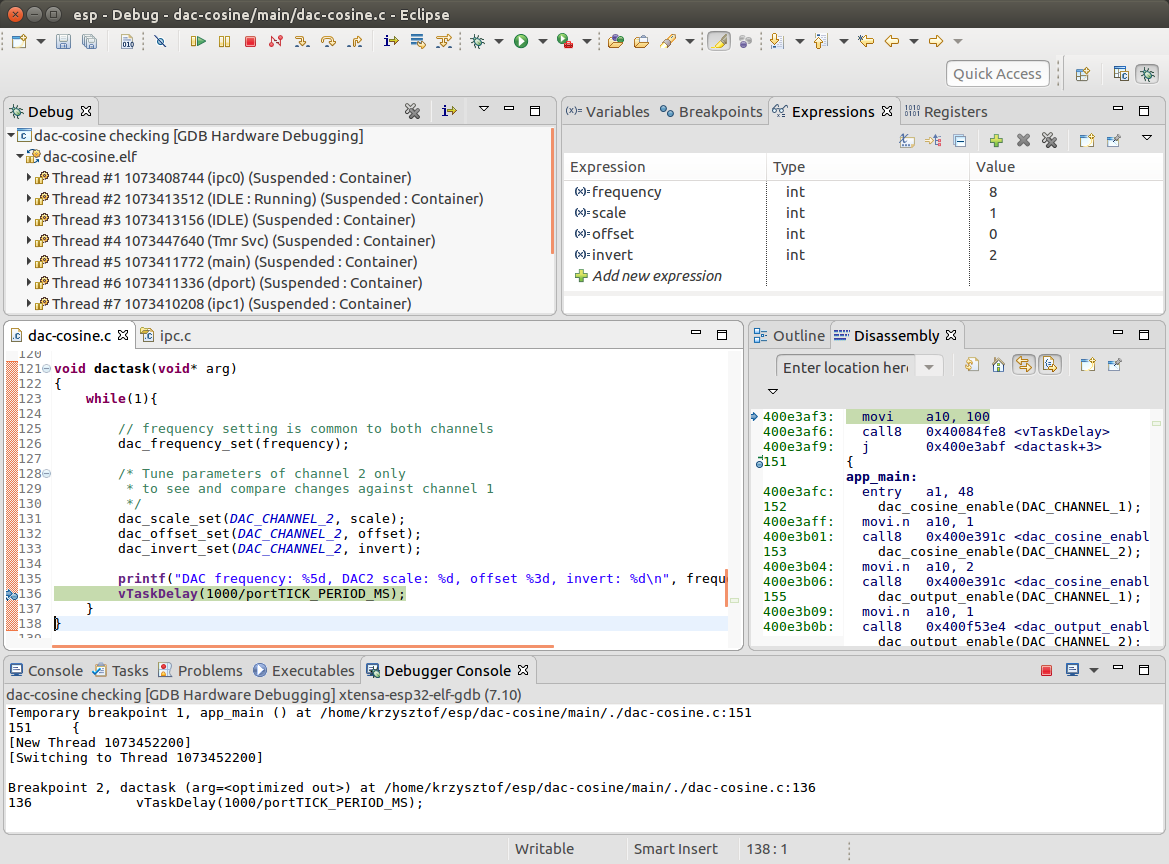
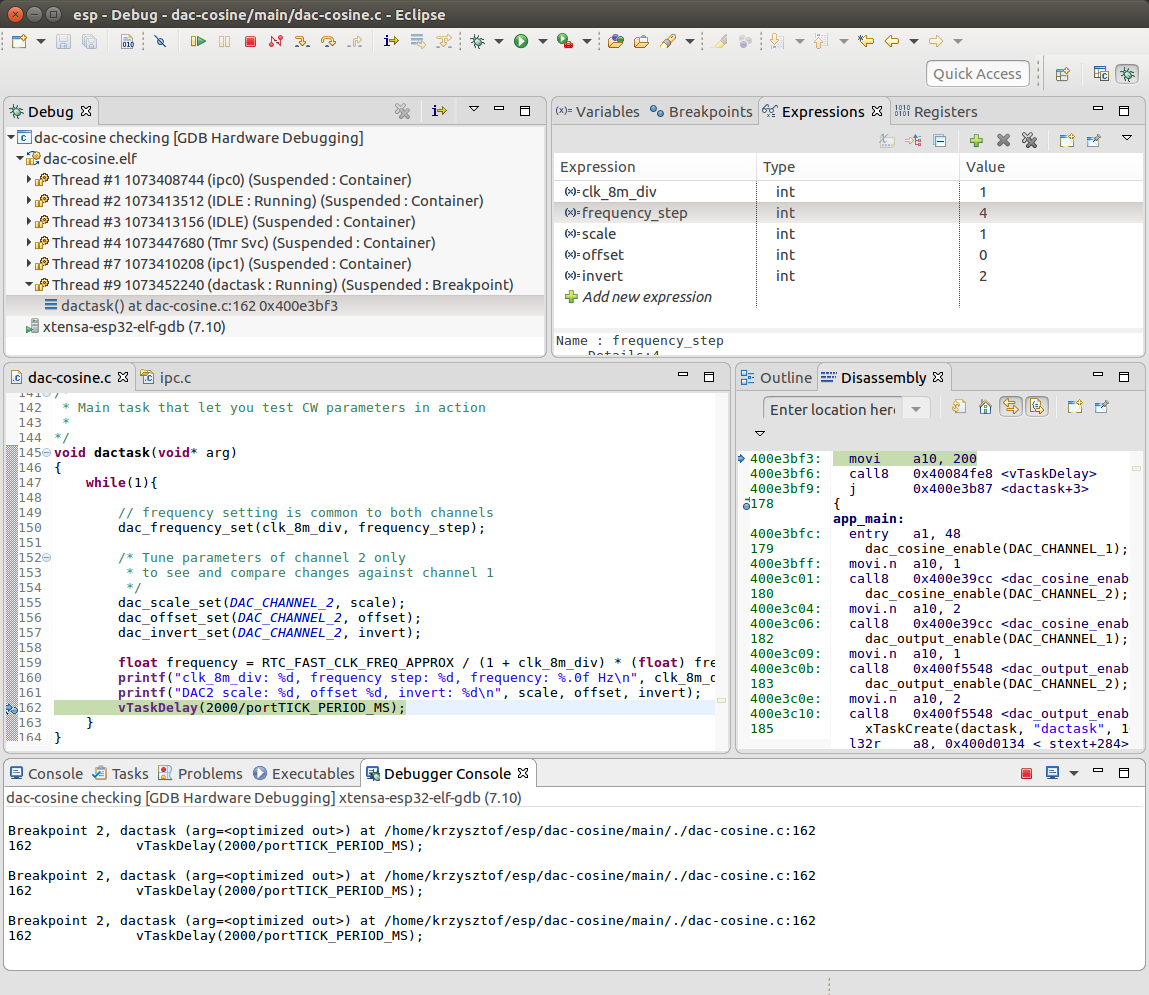
Widen lower frequecy range with clk_8m_div

Changed region(s): [[0.0, 0.0, 1.0, 1.0]]

diff --git a/main/dac-cosine.c b/main/dac-cosine.c
@@ -16,6 +16,8 @@
 #include "soc/rtc_io_reg.h"
 #include "soc/rtc_cntl_reg.h"
 #include "soc/sens_reg.h"
+#include "soc/rtc.h"
+
 
 #include "driver/dac.h"
 
@@ -23,10 +25,11 @@
  * so they may be then accessed and changed from debugger
  * over an JTAG interface
  */
-int frequency = 8;    // about 1kHz
-int scale = 1;        // 50% of the full scale
-int offset;           // leave it default / 0 = no any offset
-int invert = 2;       // invert MSB to get sine waveform
+int clk_8m_div = 0;      // RTC 8M clock divider (division is by clk_8m_div+1, i.e. 0 means 8MHz frequency)
+int frequency_step = 8;  // Frequency step for CW generator
+int scale = 1;           // 50% of the full scale
+int offset;              // leave it default / 0 = no any offset
+int invert = 2;          // invert MSB to get sine waveform
 
 
 /*
@@ -56,12 +59,14 @@ void dac_cosine_enable(dac_channel_t channel)
 /*
  * Set frequency of internal CW generator common to both DAC channels
  *
- * Range 0x0001 - 0xFFFF
+ * clk_8m_div: 0b000 - 0b111
+ * frequency_step: range 0x0001 - 0xFFFF
  *
  */
-void dac_frequency_set(int frequency)
+void dac_frequency_set(int clk_8m_div, int frequency_step)
 {
-    SET_PERI_REG_BITS(SENS_SAR_DAC_CTRL1_REG, SENS_SW_FSTEP, frequency, SENS_SW_FSTEP_S);
+    REG_SET_FIELD(RTC_CNTL_CLK_CONF_REG, RTC_CNTL_CK8M_DIV_SEL, clk_8m_div);
+    SET_PERI_REG_BITS(SENS_SAR_DAC_CTRL1_REG, SENS_SW_FSTEP, frequency_step, SENS_SW_FSTEP_S);
 }
 
 
@@ -133,13 +138,16 @@ void dac_invert_set(dac_channel_t channel, int invert)
     }
 }
 
-
+/*
+ * Main task that let you test CW parameters in action
+ *
+*/
 void dactask(void* arg)
 {
     while(1){
 
         // frequency setting is common to both channels
-        dac_frequency_set(frequency);
+        dac_frequency_set(clk_8m_div, frequency_step);
 
         /* Tune parameters of channel 2 only
          * to see and compare changes against channel 1
@@ -148,10 +156,13 @@ void dactask(void* arg)
         dac_offset_set(DAC_CHANNEL_2, offset);
         dac_invert_set(DAC_CHANNEL_2, invert);
 
-        printf("DAC frequency: %5d, DAC2 scale: %d, offset %3d, invert: %d\n", frequency, scale, offset, invert);
-        vTaskDelay(1000/portTICK_PERIOD_MS);
+        float frequency = RTC_FAST_CLK_FREQ_APPROX / (1 + clk_8m_div) * (float) frequency_step / 65536;
+        printf("clk_8m_div: %d, frequency step: %d, frequency: %.0f Hz\n", clk_8m_div, frequency_step, frequency);
+        printf("DAC2 scale: %d, offset %d, invert: %d\n", scale, offset, invert);
+        vTaskDelay(2000/portTICK_PERIOD_MS);
     }
 }
+
 
 /*
  * Generate a sine waveform on both DAC channels:

diff --git a/README.md b/README.md
@@ -10,20 +10,20 @@ The purpose of this repository is to review functionality of ESP32's cosine wave
 
 ## Documentation is there
 
-The cosine waveform (CW) generator is described in details in the [ESP32 Technical Reference Manual](http://espressif.com/sites/default/files/documentation/esp32_technical_reference_manual_en.pdf), but if we check API of [ESP-IDF](https://github.com/espressif/esp-idf), it has no any support implemented (as of July 2017). Fortunately, with commonly available information we can fairly easy put it into action.
+The cosine waveform (CW) generator is described in details in the [ESP32 Technical Reference Manual](http://espressif.com/sites/default/files/documentation/esp32_technical_reference_manual_en.pdf), but if we check API of [ESP-IDF](https://github.com/espressif/esp-idf), it has no any support implemented (as of August 2017). Fortunately, with commonly available information we can fairly easy put it into action.
  
 Starting with ESP32 Technical Reference Manual, in chapter 24.7, we learn that the cosine waveform (CW) generator it is part of 8-bit DAC functional block and find the following functional diagram:
 
 ![alt text](pictures/dac.png "ESP32 DAC functional diagram (figure from ESP32 Technical Reference Manual)")
  
-Diagram is showing "CW generator" box in upper left corner of diagram and two mux transfer blocks that are routed to DAC taking 8 bits on input on one side and providing `dacn_out` analog output on the other.
+Diagram is showing "CW generator" box in upper left corner of diagram and two mux transfer blocks that are routed to DAC taking 8 bits on input on one side, and providing `dacn_out` analog output on the other.
  
 Besides CW, DAC is also accepting input from DMA, to generate arbitrary waveform, or from `RTCIO_PAD_DACn_REG` register to provide ordinary conversion of 8-bit numeric value. Several “n” letters on this diagram indicate either 1 or 2 because DAC has two channels.
 
  
 ## Check basic DAC functionality
 
-To start with we should explore how ordinary conversion of 8-bit numeric values is performed. Checking [DAC API](http://esp-idf.readthedocs.io/en/latest/api-reference/peripherals/dac.html) in ESP-IDF, we will find couple of functions to enable DAC and output an analog value. Unfortunately these functions are not provided in source code. But checking further in [arduino-esp32](https://github.com/espressif/arduino-esp32) repository, we will find [esp32-hal-dac.c](https://github.com/espressif/arduino-esp32/blob/758553a786520b138307691e842e53b25606960b/cores/esp32/esp32-hal-dac.c) file that contains couple lines of code with comments that are behind Arduino `dacWrite` function. This should give us initial understanding which registers are used to provide digital value to be converted to analog output and how to enable or disable an output.  Checking further the [ESP32 Technical Reference Manual](http://espressif.com/sites/default/files/documentation/esp32_technical_reference_manual_en.pdf) and searching for `SENS_SAR_DAC_CTRL1_REG` we will easy find a “Register Summary” section 28.4, that provides this and other register names used in esp32-hal-dac.c with explanation of particular bits and functions.
+To start with we should explore how ordinary conversion of 8-bit numeric values is performed. Checking [DAC API](http://esp-idf.readthedocs.io/en/latest/api-reference/peripherals/dac.html) in ESP-IDF, we will find couple of functions to enable DAC and output an analog value. Unfortunately these functions are not provided in source code. But checking further in [arduino-esp32](https://github.com/espressif/arduino-esp32) repository, we will find [esp32-hal-dac.c](https://github.com/espressif/arduino-esp32/blob/758553a786520b138307691e842e53b25606960b/cores/esp32/esp32-hal-dac.c) file that contains couple lines of code with comments that are behind Arduino `dacWrite` function. This should give us initial understanding which registers are used to provide digital value to be converted to analog output, and how to enable or disable the output. Checking further the [ESP32 Technical Reference Manual](http://espressif.com/sites/default/files/documentation/esp32_technical_reference_manual_en.pdf) and searching for `SENS_SAR_DAC_CTRL1_REG` we will easy find a “Register Summary” section 28.4, that provides this and other register names used in esp32-hal-dac.c with explanation of particular bits and functions.
 
 
 ## Use CW instead of ordinary DAC conversion
@@ -36,7 +36,15 @@ In other words setting `SENS_DAC_CW_EN1` bit will connect CW generator, clearing
 
 After additional studying of fields of `SENS_SAR_DAC_CTRL1_REG` register we will also discover `SENS_SW_TONE_EN` bit that is enabling the CW generator itself.
 
-The last component to complete this exercise is setting of generator's frequency. Applicable information is provided in first paragraph of “Cosine Waveform Generator” section in ESP32 Technical Reference Manual, that “The frequency of CW can be adjusted by register SENS_SAR_SW_FSTEP[15:0]”.
+The last component to complete this exercise is setting of generator's frequency. Applicable information is provided in first paragraph of “Cosine Waveform Generator” section in ESP32 Technical Reference Manual, that “The frequency of CW can be adjusted by register SENS_SAR_SW_FSTEP[15:0]”. Looking further we will find a formula how to calculate it:
+
+```
+freq = dig_clk_rtc_freq x SENS_SAR_SW_FSTEP / 65536
+```
+
+Where the frequency of `dig_clk_rtc_freq` is typically 8 MHz.
+
+Basing on this formula the theoretical range of generator's output `freq` should be from 122 Hz to 8 MHz. In later paragraphs will will find out if this is true or not.
 
 
 ## Enable cosine generator on DAC channel 1
@@ -59,7 +67,7 @@ Now we are ready to write the code to use CW generator. To connect it to channel
 3.	Set generator's frequecy by writing a value to `SENS_SAR_SW_FSTEP[15:0]` field in `SENS_SAR_DAC_CTRL1_REG` register.
 
 	```c
-	SET_PERI_REG_BITS(SENS_SAR_DAC_CTRL1_REG, SENS_SW_FSTEP, frequency, SENS_SW_FSTEP_S);
+	SET_PERI_REG_BITS(SENS_SAR_DAC_CTRL1_REG, SENS_SW_FSTEP, frequency_step, SENS_SW_FSTEP_S);
 	```
 
 4. Enable output on DAC channel 1 by calling API function [dac_output_enable()](http://esp-idf.readthedocs.io/en/latest/api-reference/peripherals/dac.html#_CPPv217dac_output_enable13dac_channel_t).
@@ -105,30 +113,33 @@ The sinusoid itself has some random artifacts around zero and 180 phase, but I a
 
 ![alt text](pictures/dac2.png "Cosine generator parameter setting (figure from ESP32 Technical Reference Manual)")
 
-After checking of registers we should be able to compile complete list of fields to tweak:
+This indicates we should be able to scale and add bias to the output with `SENS_DAC_SCALE` and `SENS_DAC_DC` registers. 
 
-- Frequency - `SENS_SW_FSTEP`
+Let's also examine if we can widen the range of CW's output frequencies by changing the frequency of input clock signal `dig_clk_rtc`. If you are tracking development of [ESP-IDF](https://github.com/espressif/esp-idf), you might have noticed a [post by Ivan Grokhotkov about opening the source of #ESP32's clock functions](https://twitter.com/i_grr/status/852177740581052416). Checking provided link we will find several promising [RTC clock dividers](https://github.com/espressif/esp-idf/blob/6353bc40d7adaa64a414e36276e31912bc450bfd/components/soc/esp32/include/soc/rtc.h#L110-L118) and [their default settings](https://github.com/espressif/esp-idf/blob/6353bc40d7adaa64a414e36276e31912bc450bfd/components/soc/esp32/include/soc/rtc.h#L123-L131). After analyzing provided information and crosschecking it against section "3.2 System Clock" of [ESP32 Technical Reference Manual](http://espressif.com/sites/default/files/documentation/esp32_technical_reference_manual_en.pdf), we should be able to identify field `RTC_CNTL_CK8M_DIV_SEL` in register `RTC_CNTL_CLK_CONF_REG` that let us to step change the frequency of `dig_clk_rtc` signal. 
+
+
+With all collected information we should be able to compile complete list of fields to tweak:
+
+- Divider of RTC 8 MHz Clock - `RTC_CNTL_CK8M_DIV_SEL`
+- Frequency Step - `SENS_SW_FSTEP`
 - Scale - `SENS_DAC_SCALE`
 - Offset - `SENS_DAC_DC`
 - Inversion -`SENS_DAC_INV`
 
-Having four parameters to manage and check, it would be reasonable to write an user interface to make it easier to adjust individual values.
+**Note:** while this is fine to change the frequency of RTC 8 MHz clock to tune operation of CW, it may affect operation of other RTC peripheries, that are using this clock signal. Check it, if you are planning to change default value of `RTC_CNTL_CK8M_DIV_SEL` as provided in ESP-IDF, in your application.
+
+Having five parameters to manage and check, it would be reasonable to write an user interface to make it easier to adjust individual values.
 
 Before you rush to write the UI, I propose an easier and quicker way to examine all parameters in action.
 
 
 ## JTAG makes testing easier
 
-ESP32 is equipped with JTAG functionality that together with [OpenOCD](https://github.com/espressif/openocd-esp32) software make it much easier to test and troubleshoot the ESP32 hardware and application.
+ESP32 is equipped with [JTAG functionality](http://esp-idf.readthedocs.io/en/latest/api-guides/jtag-debugging/index.html) that together with [OpenOCD](https://github.com/espressif/openocd-esp32) software make it much easier to test and troubleshoot the ESP32 hardware and application.
 
 In this particular case we can use JTAG + OpenOCD to stop application execution, apply CW parameter changes and resume execution to see how CW responds.
 
-Check documentation how to install and operate JTAG under the following links:
-
-- [ESP32 Programming Guide / API Guides / Debugging](http://esp-idf.readthedocs.io/en/latest/api-guides/openocd.html)
-- [JTAG Debugging for ESP32 (PDF)](http://espressif.com/sites/default/files/documentation/jtag_debugging_for_esp32_en.pdf)
-
-Clone this repository, build the code and load it to ESP32. Connect a scope to DAC channels 1 and 2 (GPIO25 and GPIO26).
+Clone [this repository](https://github.com/krzychb/dac-cosine), build the code and load it to ESP32. Connect a scope to DAC channels 1 and 2 (GPIO25 and GPIO26).
 
 The waveform on channel 1 will be set to default values of 1kHz frequecy without any scaling or offset. We will then tweak CW parameters on channel 2 to see how the output on this channel differs from the reference channel 1.
 
@@ -139,18 +150,37 @@ After running debugger establish a breakpoint inside main loop of `dactask()`. O
 
 Once ready you can change individual CW parameters. Then click "Resume" or press F8 to run the application. The application will use new parameter values and halt waiting for another change.
 
+Application's output looks as follows:
+
+```
+clk_8m_div: 0, frequency step: 8, frequency: 1038 Hz
+DAC2 scale: 1, offset 0, invert: 2
+clk_8m_div: 0, frequency step: 1000, frequency: 129700 Hz
+DAC2 scale: 1, offset 0, invert: 2
+clk_8m_div: 7, frequency step: 1, frequency: 16 Hz
+DAC2 scale: 1, offset 0, invert: 2
+clk_8m_div: 0, frequency step: 1, frequency: 130 Hz
+DAC2 scale: 1, offset 0, invert: 2
+clk_8m_div: 3, frequency step: 8, frequency: 259 Hz
+DAC2 scale: 1, offset 0, invert: 2
+clk_8m_div: 1, frequency step: 4, frequency: 259 Hz
+DAC2 scale: 1, offset 0, invert: 2
+```
+
 Below is an example of output of channel 1 (red trace = reference) and channel 2 (yellow trace) with scale set to 1/2 and inversion of all bits except MSB. 
 
 ![alt text](pictures/comparing-dac-output.png "Comparing output on DAC channels")
 
-JTAG interface operated from [Eclipse IDE](https://eclipse.org/) makes is easy and intuitive to interact with the application that has no user interface provided. Within couple of minutes it was possible to probe critical parameter and e.g. discover that at frequencies of around 100 kHz the waveform it is getting visible saw noise. The lowest frequency that can be set is around 125 Hz.
+JTAG interface operated from [Eclipse IDE](https://eclipse.org/) makes is easy and intuitive to interact with the application that has no user interface provided. Within couple of minutes it was possible to probe critical parameter and e.g. discover that at frequencies of around 100 kHz the waveform it is getting visible saw noise.
 
 ![alt text](pictures/saw-noise-100kHz.png "Saw noise is getting visible at 100kHz")
+
+The lowest frequency that can be set is around 130 Hz without changing default value (0b000) of RTC 8 MHz clock divider, or 16 Hz if divider is set to maximum 0b111.
 
 
 ## Conclusion
 
-ESP32 has on board cosine waveform generator with adjustable frequecy, scale and offset. The waveform has 8-bit resolution and can be output to GPIO25 (channel 1) and / or GPIO26 (channel 2) pins. Scale and offset can be set individually per channel. Frequency setting is common to both channels. The waveforms are generated by ESP32's hardware without any overhead on CPUs. 
+ESP32 has on board cosine waveform generator with adjustable frequency, scale and offset. The waveform has 8-bit resolution and can be output to GPIO25 (channel 1) and / or GPIO26 (channel 2) pins. Scale and offset can be set individually per channel. Frequency setting is common to both channels and ranges from 130 Hz to about 100 kHz, where conversion artifacts became visible. It is possible to lower bottom frequency to 16 Hz with setting non default `clk_8m_div` divider. The waveforms are generated by ESP32's hardware without any overhead on CPUs. 
 
 ![alt text](pictures/test-setup.jpg "Setup used for testing of cosing waveform generator of ESP32")
 
